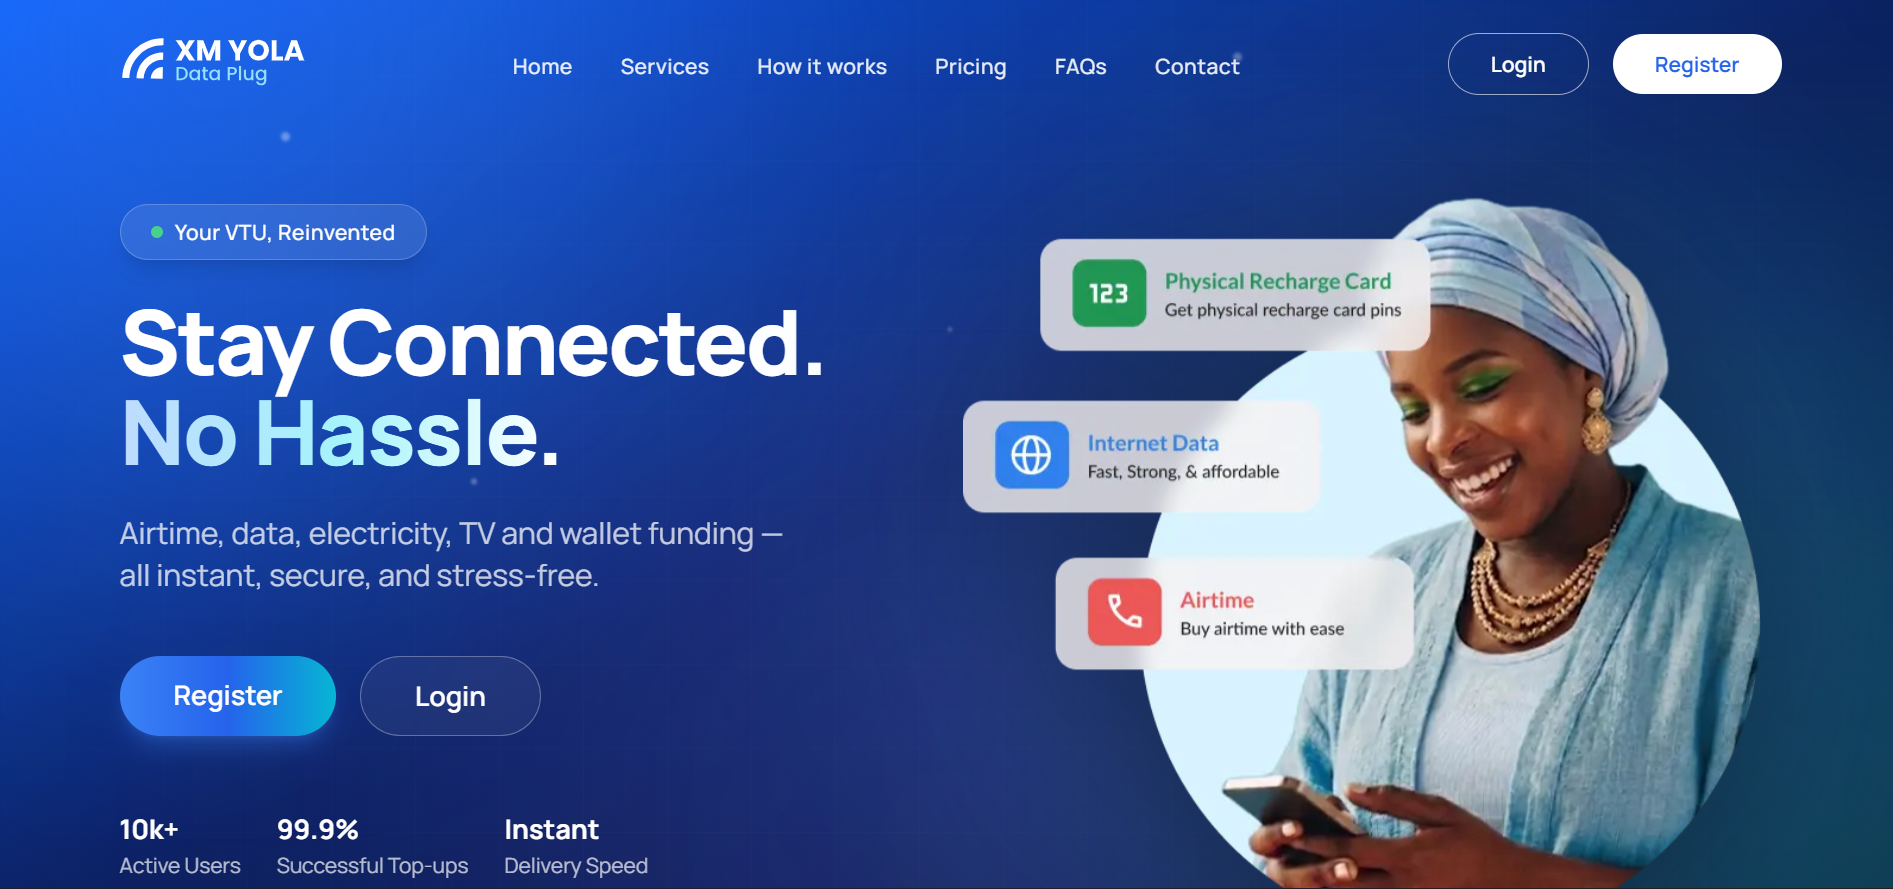
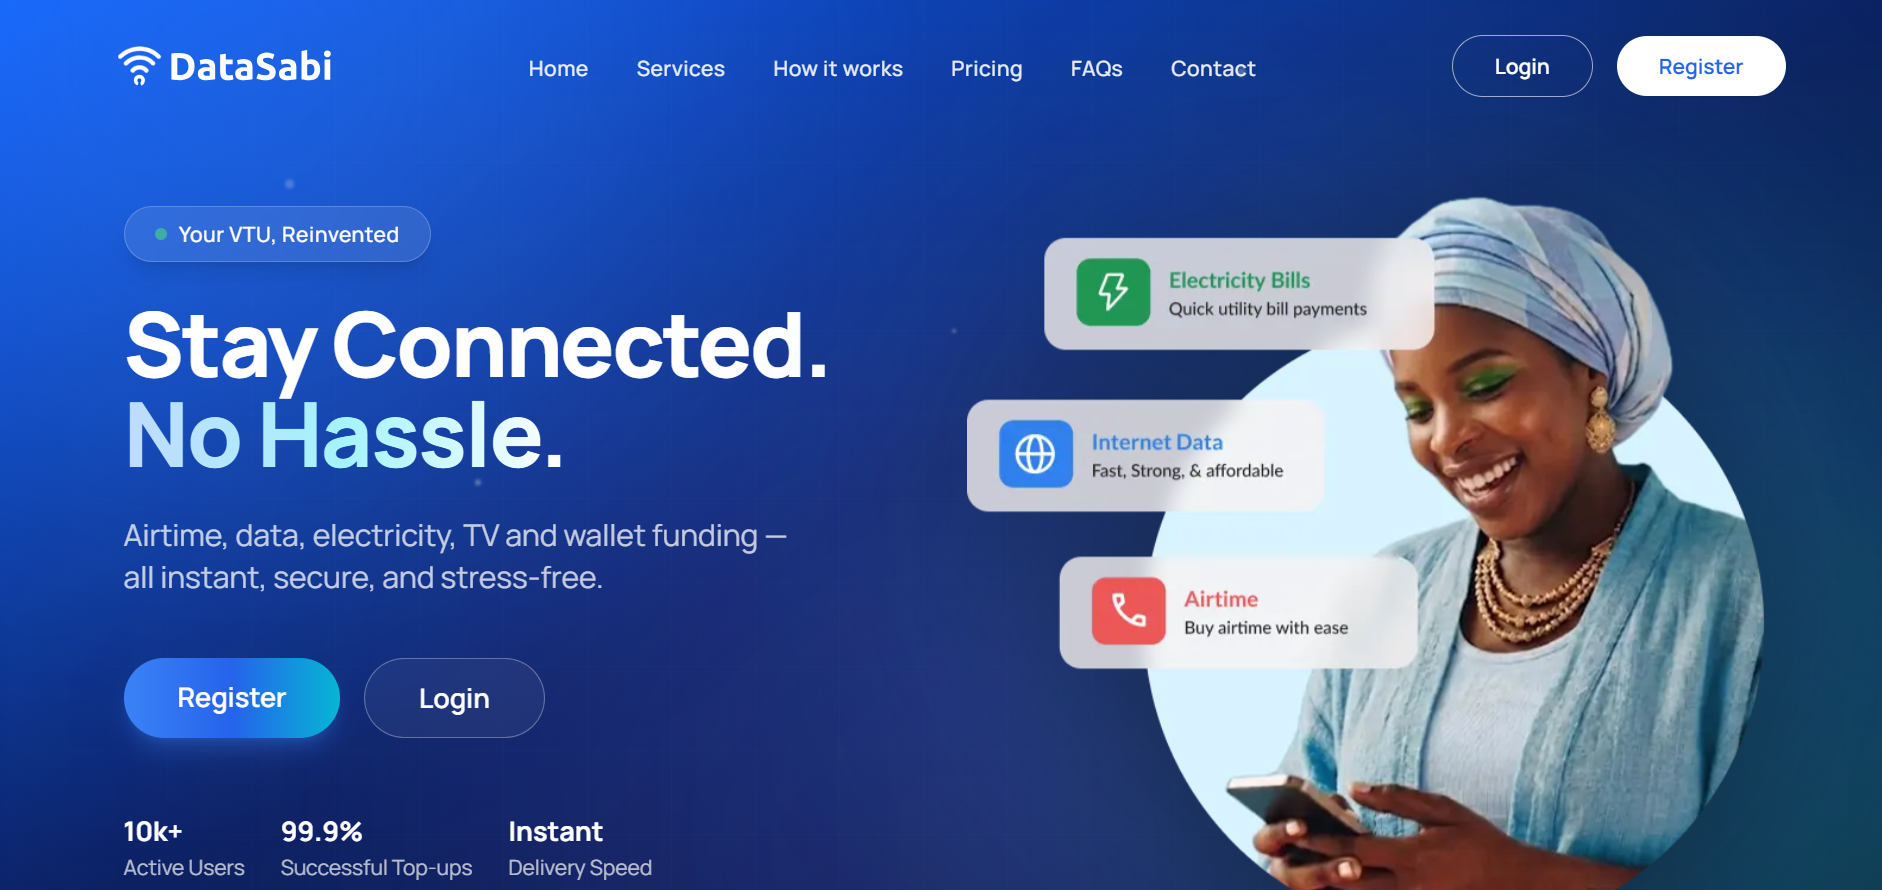
update: work and education data

diff --git a/components/work.tsx b/components/work.tsx
@@ -6,20 +6,38 @@ import { Calendar, Briefcase, MapPin } from "lucide-react"; // Or use your own i
 
 const work = [
   {
-    role: "Software Engineer",
-    company: "Promptto",
-    location: "Abuja",
+    role: "Product Designer",
+    company: "PromptTo AI Lab",
+    location: "Remote",
     year: "2024 - Present",
     current: true,
-    desc: "Building AI-powered software solutions, mobile applications, and automation systems.",
+    desc: "Leading the end-to-end design and architecture of AI-powered software and automation systems.",
+  },
+
+  {
+    role: "Founder & Lead Engineer",
+    company: "Veyrix Technologies",
+    location: "Abuja",
+    year: "2022 - Present",
+    current: true,
+    desc: "Leading the end-to-end development of cross-platform mobile and web applications, alongside native Android solutions.",
+  },
+
+  {
+    role: "Chief Technology Officer",
+    company: "Mile Star Limited",
+    location: "Gombe",
+    year: "2021 - 2024",
+    current: false,
+    desc: "Oversaw technical strategy and product roadmaps, ensuring scalable architecture and high-quality engineering standards.",
   },
   {
-    role: "Freelance Mobile Developer",
-    company: "Independent",
+    role: "UI/UX Designer Intern",
+    company: "Practicode Academy",
     location: "Remote",
-    year: "2022 - 2024",
+    year: "2022 - 2023",
     current: false,
-    desc: "Delivered Android apps, APIs integration, and UI/UX-driven product development.",
+    desc: "Transformed complex user problems into intuitive designs and validated prototypes through stakeholder feedback and UI audits.",
   },
 ];
 
@@ -27,7 +45,6 @@ export default function Work() {
   return (
     <section className="relative py-28 px-8 " id="work">
       <div className="max-w-6xl mx-auto grid grid-cols-1 md:grid-cols-2 gap-12">
-        
         {/* Left: Sticky Title */}
         <motion.div
           initial={{ opacity: 0, y: 25 }}
@@ -52,9 +69,7 @@ export default function Work() {
             >
               {/* Role & Badge */}
               <div className="flex items-center gap-3 mb-4">
-                <h3 className="text-xl font-semibold text-white">
-                  {job.role}
-                </h3>
+                <h3 className="text-xl font-semibold text-white">{job.role}</h3>
                 {job.current && (
                   <span className="px-3 py-1 rounded-md bg-white/5 border border-white/10 text-[#a38b7e] text-xs font-medium">
                     Current

diff --git a/components/Education.tsx b/components/Education.tsx
@@ -7,9 +7,9 @@ import { Calendar, GraduationCap, MapPin } from "lucide-react";
 const education = [
   {
     degree: "BSc in Computer Science",
-    school: "University / Polytechnic",
-    location: "Nigeria",
-    year: "2019 - 2023",
+    school: "Federal University of Kashere",
+    location: "Gombe",
+    year: "2021 - 2025",
     highest: true,
     desc: "Focused on software engineering, algorithms, and system design. Graduated with a strong foundation in building scalable applications.",
   },

diff --git a/components/Hero.tsx b/components/Hero.tsx
@@ -76,7 +76,7 @@ export default function Hero() {
             <div className="grid grid-cols-[100px_1fr] gap-x-12 gap-y-2 pb-8 border-b border-white/5">
               <p className="text-white font-semibold text-lg">About</p>
               <div className="space-y-1 text-white/50 text-lg leading-tight">
-                <p>Software Engineer</p>
+                <p>Software Engineer | Product Designer</p>
                 <p>Based in Nigeria</p>
                 <p>3+ Years Experience</p>
                 <p className="text-white/80">Open to Work</p>